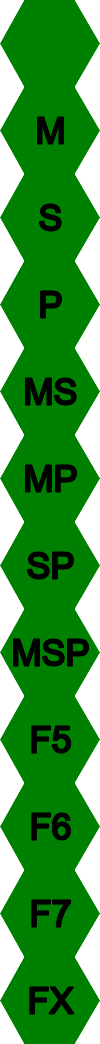
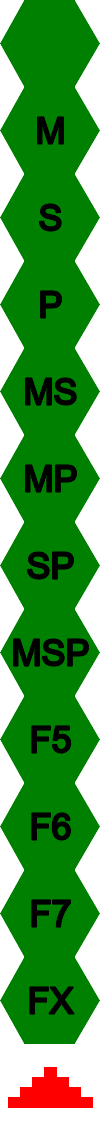
add ziggurat image

diff --git a/babylonia.css b/babylonia.css
@@ -44,11 +44,11 @@
 .container > div > div.city {
     height: var(--hh);
     width: var(--hw);
-    background-size: 100% 1200%;
+    background-size: 100% 1300%;
 }
 
 .city {
-    background-size: 100% 1200%;
+    background-size: 100% 1300%;
 }
 
 .city_msp  {
@@ -86,6 +86,9 @@
 }
 .farm_X     {
     background: url('images/cities.png') 0% -1100%;
+}
+.ziggurat   {
+    background: url('images/cities.png') 0% -1200%;
 }
 
 .container > div > div.piece {

diff --git a/map.html b/map.html
@@ -28,7 +28,8 @@
 	    "farm_5",
 	    "farm_6",
 	    "farm_7",
-	    "farm_X"
+	    "farm_X",
+	    "ziggurat",
 	];
 
 	cc = e.parentElement.classList;
